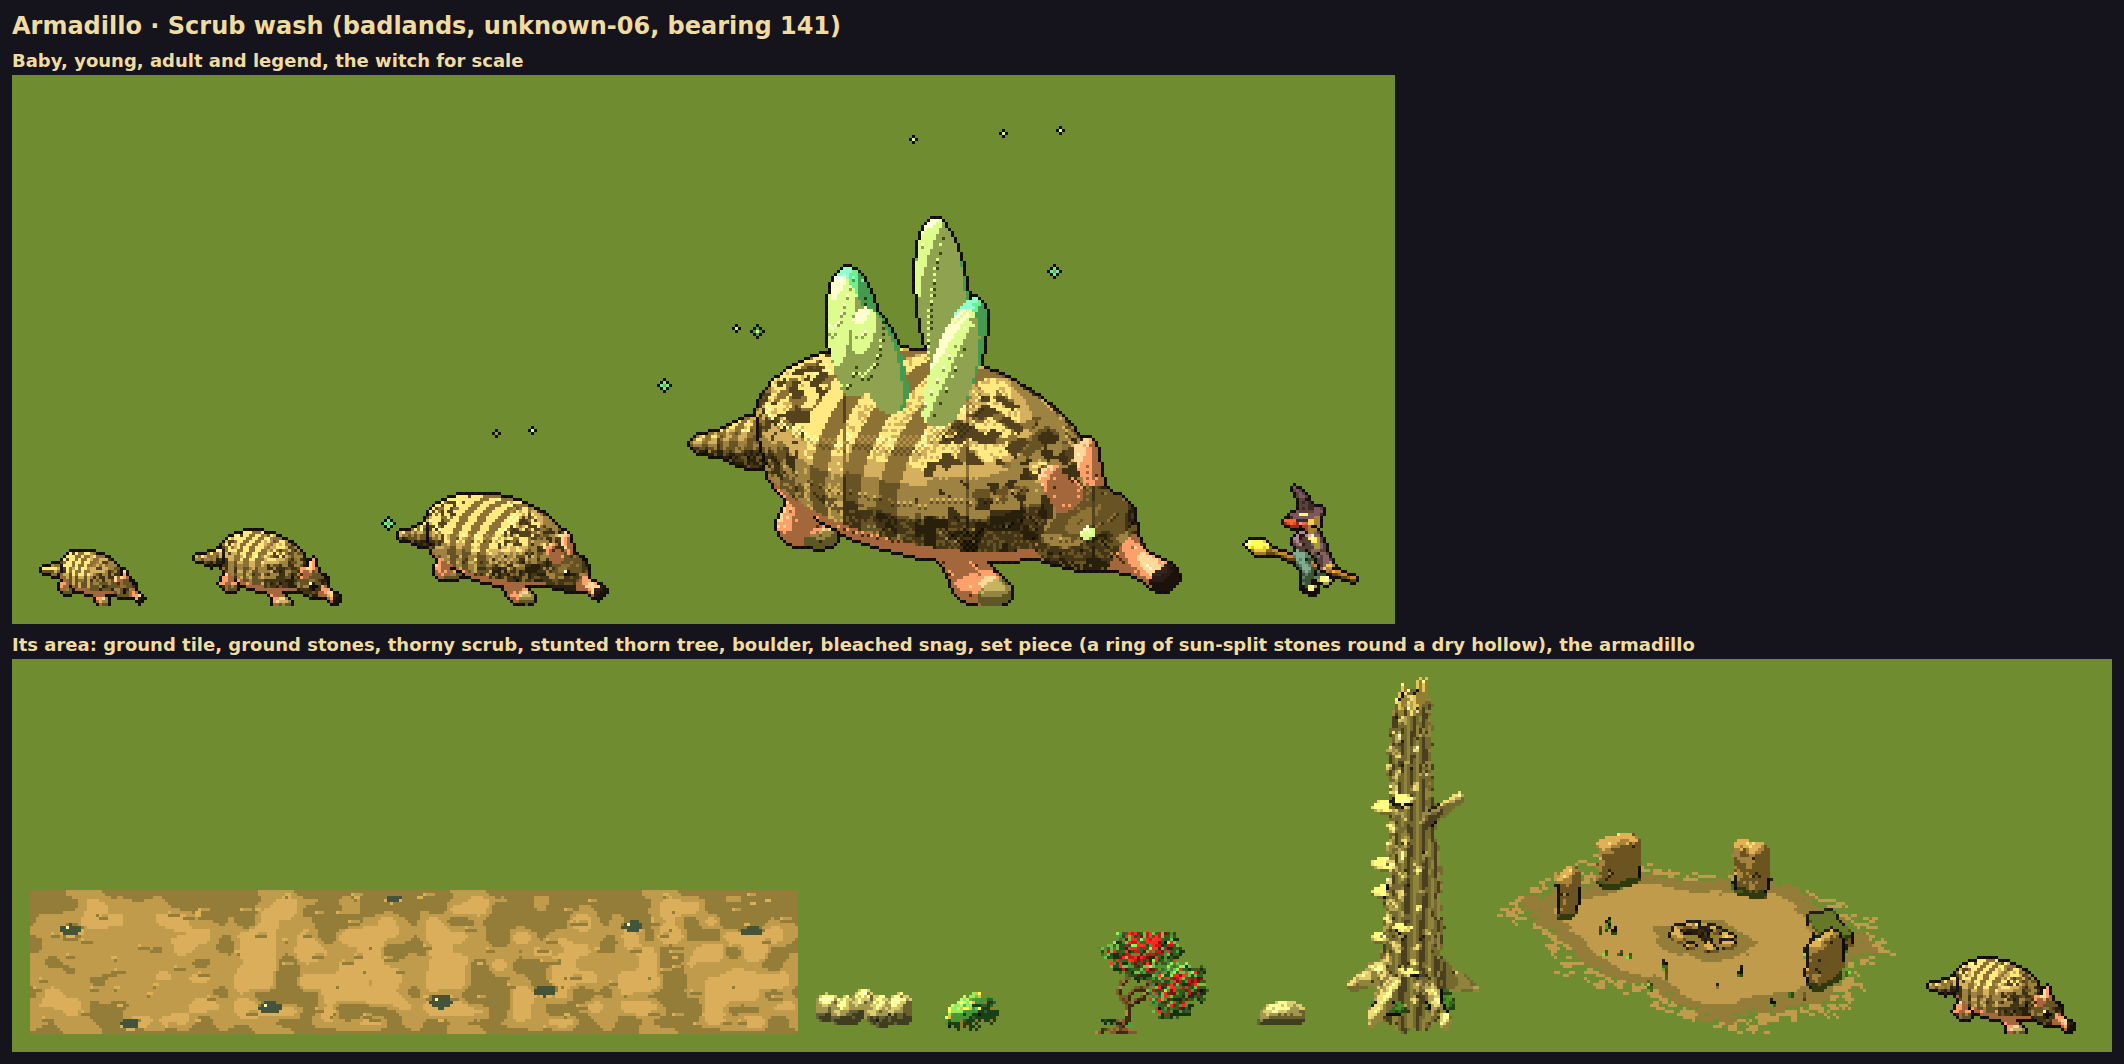
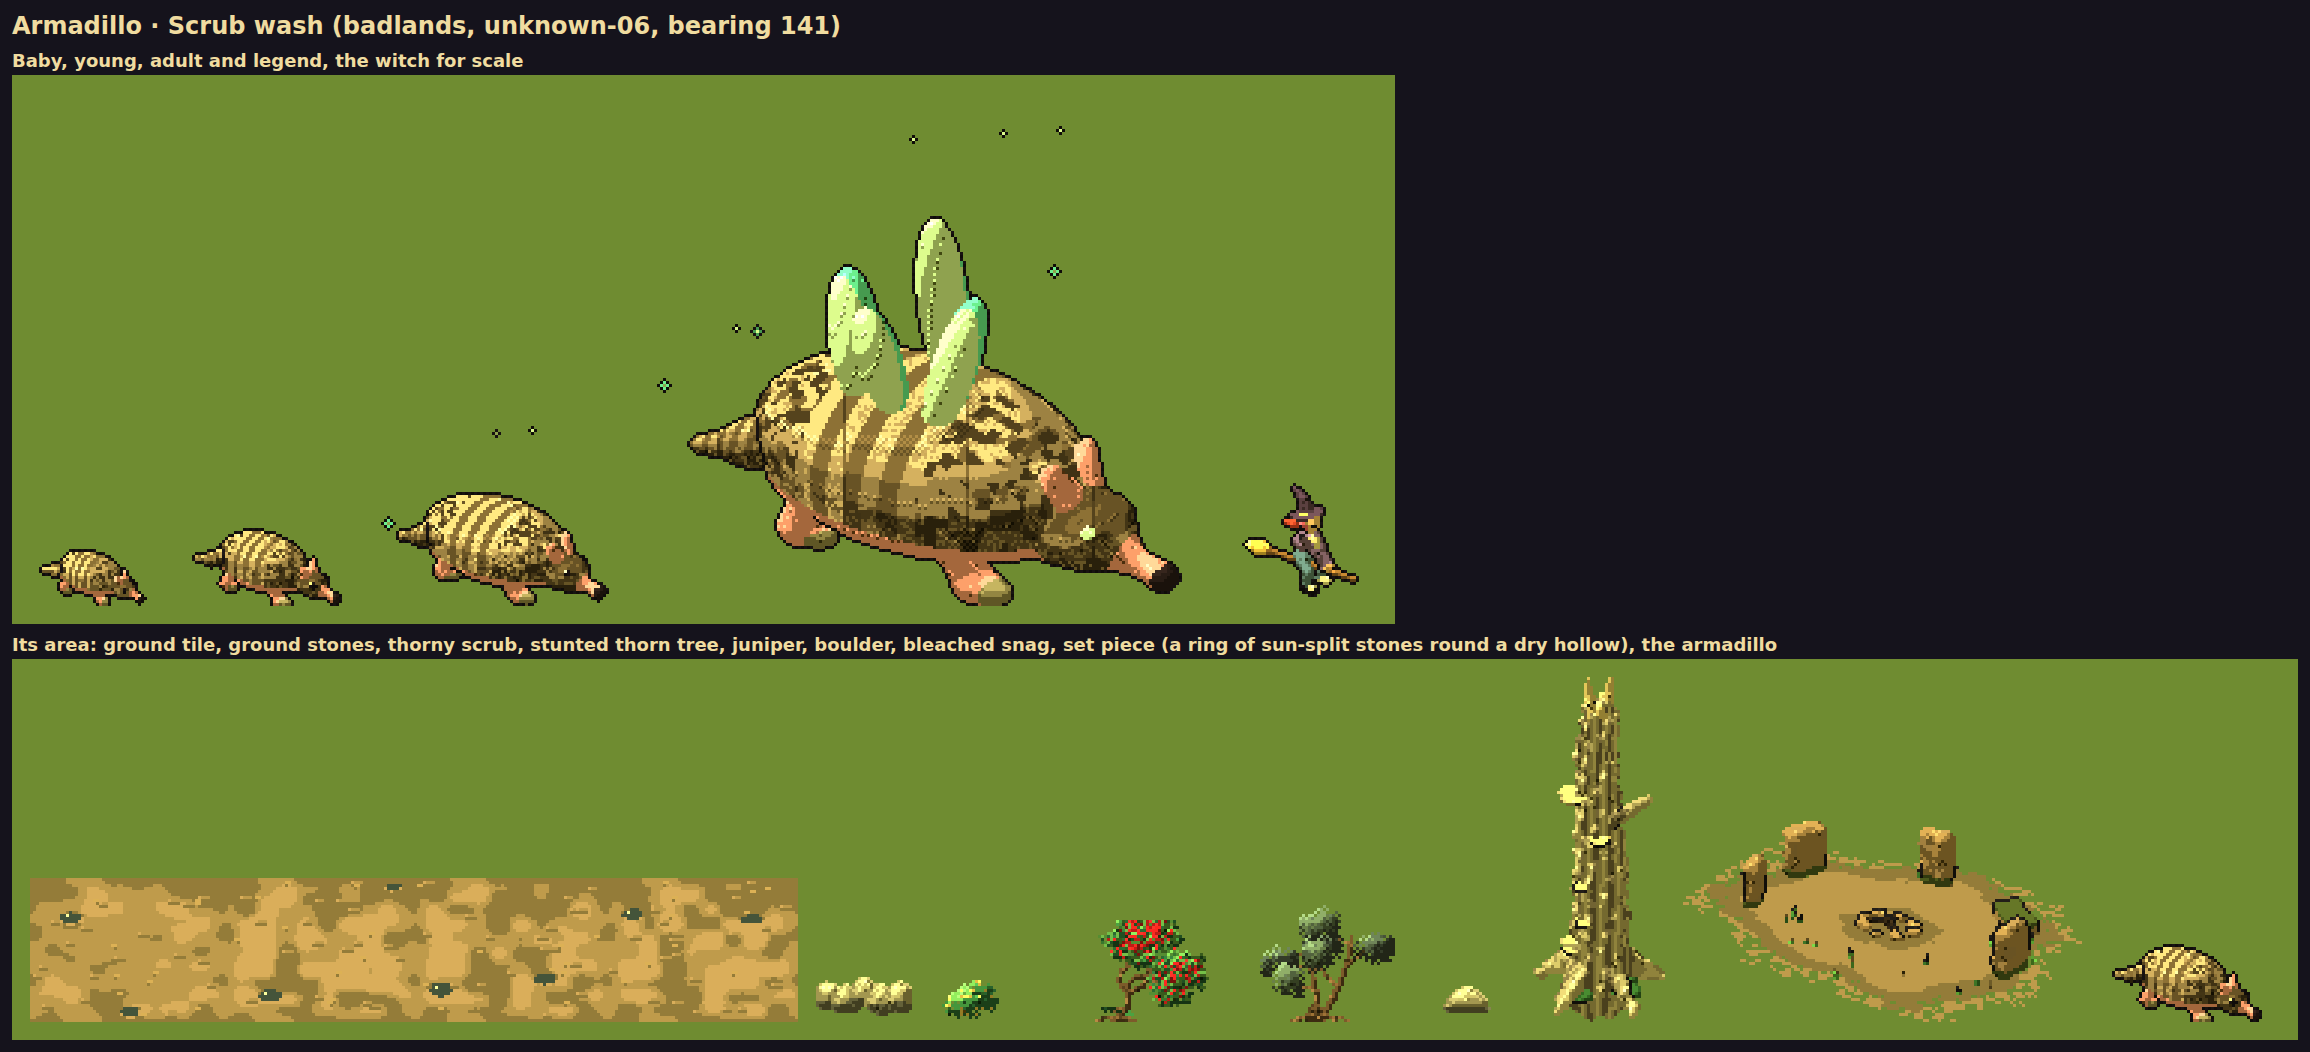
Mocks: the raccoon and its mossy creek; junipers in both badlands areas (Ed: trees in every area)
A juniper genome (blob: twisted, split trunk, lumpy crowns); the raccoon on the four-legged builder with a bandit-mask face and a
ringed tail; the mossy creek recipe (spruce, cedar, alder, ferns, a mossy logjam).

Claude-Session: https://claude.ai/code/session_01TZiiLtuTHaQyxfLgD6H57G

Changed region(s): [[0.0, 0.0608, 0.9944, 0.9734], [0.0, 0.0, 0.404, 0.0913]]

diff --git a/art/creatures3d.js b/art/creatures3d.js
@@ -323,6 +323,7 @@ export function quad3d(S, level, frame, st, facing = "towards") {
   const headPaint = p => {
     if (q.face === "badger") return Math.abs(p[2]) < hr * .22 * (q.blaze ?? 1) + (p[0] - H[0]) * .1 || p[1] < H[1] - hr * .1 ? (q.blazeGlow && Math.abs(p[2]) < hr * .22 * (q.blaze ?? 1) && p[1] > H[1] - hr * .1 ? M.RUNE : M.BELLY) : M.BODY3; // blaze: the stripe's width; blazeGlow: it glows in moonlight
     if (q.face === "dark") return M.BODY2;
+    if (q.face === "raccoon") { const band = H[1] + hr * .12; if (p[0] > H[0] - hr * .35 && Math.abs(p[1] - band) < hr * .27) return M.BODY3; if (p[0] > H[0] - hr * .1 && p[1] >= band + hr * .27 && p[1] < band + hr * .5) return M.BELLY; if (p[0] > H[0] + hr * .2 && p[1] < band - hr * .27) return M.BELLY; return undefined; } // the bandit mask: black across its eyes, white brows over it and a white muzzle under
     if (q.frost && p[0] > H[0] + hr * .7 && spotty(p, 26, .45)) return M.WEB; // frost on its muzzle
     if (q.mask && p[0] > H[0] + hr * .15 && p[1] > H[1] - hr * .4 && p[1] < H[1] + hr * .45) return M.BELLY; // a white mask over its eyes and muzzle
     if ((q.belly || q.muzzle) && p[1] < H[1] - hr * .35) return M.BELLY;
@@ -464,6 +465,7 @@ function tail3d(m, kind, tb, len, top, tw) {
   else if (kind === "newt") { m.chain([[...tb, .1], [X(1.35), .3 + tw, 0, .07], [X(1.85), .2 + tw * .5, 0, .04]], M.BODY, o); m.ell([X(1.55), .33 + tw * .7, 0], [.42, .2, .03], M.BODY2, { ...o, dir: [1, -.12, 0] }); } // a newt's tail: a tall flat crested fin (its signature)
   else if (kind === "salamander") m.chain([[...tb, .12], [X(1.3), .18 + tw, 0, .08], [X(1.75), .1, 0, .055], [X(2.1), .16 + tw, 0, .035], [X(2.25), .3 + tw, 0, .02]], M.BODY, { ...o, paint: p => p[0] < X(1.6) && Math.sin(p[0] * 18) > .4 ? M.BELLY : undefined }); // long and slim, banded, curling up at its tip
   else if (kind === "flat") { m.seg(tb, [X(1.15), .3, 0], .1, .09, M.BODY2, o); m.ell([X(1.5), .17 + tw * .5, 0], [.44, .07, .3], M.BODY3, { ...o, dir: [1, .25, 0], paint: p => (Math.floor(p[0] * 14) + Math.floor(p[2] * 14)) % 2 ? M.BODY2 : undefined }); } // the broad scaly paddle, tipped up so it shows (its signature)
+  else if (kind === "ringed") m.chain([[...tb, .1], [X(1.05) - .3, top - .1 + tw, 0, .15], [X(1.05) - .7, top - .25 + tw, 0, .15], [X(1.05) - .95, top - .4 + tw, 0, .09]], M.BODY, { ...o, paint: p => Math.floor(-p[0] * 7) % 2 || p[0] < X(1.05) - .85 ? M.BODY3 : undefined }); // thick, held low, ringed in black, its tip black (the raccoon's)
   else if (kind === "thin") { m.chain([[...tb, .04], [X(1.1), top - .3, 0, .03], [X(1.12) + tw, top - .55, 0, .025]], M.BODY, o); m.ell([X(1.12) + tw, top - .62, 0], [.04, .07, .04], M.BODY3, o); }
 }
 

diff --git a/art/recipes/warren.js b/art/recipes/warren.js
@@ -2,17 +2,18 @@
 // (art/recipes.js says what each field is). Red sand and pebbles between eroded hoodoos, dry tussocks, a heap of red stones over
 // the burrows where the sentinels stand watch; the meerkat its creature.
 export const WARREN = {
-  id: "warren", name: "Warren", creature: "meerkat", by: "recipe", leaf: .12, floor: ["stony", .05, .45, .52],
-  text: { floor: "red sand and pebbles", wall: "low rock ledges", small: "dry tussocks", big: "red rock hoodoos and sun-bleached snags", set: "a heap of red stones over the warren" },
+  id: "warren", name: "Warren", creature: "meerkat", by: "recipe", leaf: .3, floor: ["stony", .05, .45, .52],
+  text: { floor: "red sand and pebbles", wall: "low rock ledges", small: "dry tussocks", big: "twisted junipers among red rock hoodoos", set: "a heap of red stones over the warren" },
   wall: [["rockwall", {}]], small: [["grass", { h: 1.1, leafHue: .12, leafSat: .35 }]],
-  big: [["spire", { rock: [.04, .55, .62], dry: true }], ["spire", { twin: true, sparse: .2, rock: [.05, .5, .66], dry: true }], ["boulder", { sparse: .25 }], ["snag", { sparse: .12, bleached: true }]],
+  big: [["tree", { type: "juniper", scale: 1.15, lean: .2 }], ["spire", { sparse: .25, rock: [.04, .55, .62], dry: true }], ["spire", { twin: true, sparse: .2, rock: [.05, .5, .66], dry: true }], ["boulder", { sparse: .25 }], ["snag", { sparse: .12, bleached: true }]],
   steep: true,
   setPiece: ["heap", "a heap of red stones over the warren", 1, { of: "stones", moss: 0, top: "slab", stone: [.04, .5, .6] }],
   layout: {
     pattern: "scatter", density: .25, clump: .5, glades: { count: 2, size: [14, 22] },
-    heightMix: null, undergrowth: .4, lean: { dir: 0, amount: 0 },
+    heightMix: { sapling: .3, mature: .55, tall: .15, giant: 0 }, undergrowth: .4, lean: { dir: 0, amount: 0 },
     terrain: ["rocky", "ridges", "mounds"], decor: { rate: .35, ruins: .2, rocks: .7, freak: 0, lake: 0, modern: .1 },
-    feel: "Red sand flats under eroded hoodoos, dry tussocks, burrow mouths everywhere; hot, open and watched from every rock.",
+    feel: "Red sand flats under eroded hoodoos, twisted junipers, dry tussocks, burrow mouths everywhere; hot, open and watched from every rock.",
   },
+  flora: { species: [["juniper", 1]], palette: { sat: .5, val: .8 } },
   settings: { treeDensity: .25, groundCover: { density: .4, kinds: ["pebbles", "blades"] } },
 };

diff --git a/art/recipes/scrubwash.js b/art/recipes/scrubwash.js
@@ -2,10 +2,10 @@
 // recipe (art/recipes.js says what each field is). Cracked dry clay along a sandy wash, thorny scrub and stunted thorn trees,
 // sun-split stones; the armadillo its creature.
 export const SCRUB_WASH = {
-  id: "scrub-wash", name: "Scrub wash", creature: "armadillo", by: "recipe", leaf: .17, floor: ["mud", .08, .32, .52],
-  text: { floor: "cracked dry clay", wall: "the wash's sandy banks", small: "thorny scrub", big: "stunted thorn trees and sun-split boulders", set: "a ring of sun-split stones round a dry hollow" },
+  id: "scrub-wash", name: "Scrub wash", creature: "armadillo", by: "recipe", leaf: .24, floor: ["mud", .08, .32, .52],
+  text: { floor: "cracked dry clay", wall: "the wash's sandy banks", small: "thorny scrub", big: "stunted thorn trees, junipers and sun-split boulders", set: "a ring of sun-split stones round a dry hollow" },
   wall: [["rockwall", {}]], small: [["shrub", { spiky: true, flower: [214, 190, 120] }]],
-  big: [["tree", { type: "hawthorn", scale: .65, gnarl: 1, lean: .25 }], ["boulder", { sparse: .2 }], ["snag", { sparse: .15, bleached: true }]],
+  big: [["tree", { type: "hawthorn", scale: .65, gnarl: 1, lean: .25 }], ["tree", { type: "juniper", minor: true, scale: .75, lean: .25 }], ["boulder", { sparse: .2 }], ["snag", { sparse: .15, bleached: true }]],
   setPiece: ["ring", "a ring of sun-split stones round a dry hollow", 1, { member: "stone", height: 1.1, width: .8, stone: [.07, .3, .62] }],
   layout: {
     pattern: "scatter", density: .35, clump: .55, glades: { count: 2, size: [12, 18] },
@@ -13,6 +13,6 @@ export const SCRUB_WASH = {
     terrain: ["rocky", "hollows"], decor: { rate: .3, ruins: .3, rocks: .6, freak: .1, lake: 0, modern: .1 },
     feel: "Cracked clay and sand in a dry wash, thorny scrub and stunted thorn trees bent by the heat; dusty, low and prickly.",
   },
-  flora: { species: [["hawthorn", 1]], palette: { sat: .55, val: .75 } },
+  flora: { species: [["hawthorn", .6], ["juniper", .4]], palette: { sat: .55, val: .75 } },
   settings: { treeDensity: .35, groundCover: { density: .5, kinds: ["pebbles", "blades"] } },
 };

diff --git a/art/genome/species.js b/art/genome/species.js
@@ -137,6 +137,9 @@ export const GENOMES = [
   { id: "newt", name: "Newt", template: "quadruped", builder: "quad", palette: { hue: .08, sat: .55, val: .35, belly: "yellow" }, body: { hgt: .4, len: 1.1, chest: .1, tuck: .1, neck: .14, neckAng: .1, neckW: .45, hr: .28, legW: .6, bw: .22 }, head: { snout: .42, snoutD: .5 }, parts: { ears: { kind: "none" }, tail: "newt", feet: "paw" }, coat: { spots: true, spotMat: "belly", ridge: 2.4 }, legend: ["crystals"], texture: { kind: "smooth" } },
   // the heronry's heron (an area recipe's, #119; art builder 2's heron builder): a tall grey wader, S-necked, dagger-billed
   { id: "heron", name: "Heron", template: "avian", builder: "heron", palette: { hue: .6, sat: .08, val: .62 }, legend: ["wings"], texture: { kind: "feathers" } },
+  // the cold rainforest's raccoon (Ed, 2026-10-12, unknown-30): grey and hunched, a black bandit mask between white brows and muzzle,
+  // dark legs and hands, a thick ringed tail (not Delta's red panda: grey, not russet)
+  { id: "raccoon", name: "Raccoon", template: "quadruped", builder: "quad", palette: { hue: .62, sat: .07, val: .55 }, body: { hgt: .62, len: .6, chest: .36, tuck: .4, neck: .2, neckAng: .45, neckW: .45, hr: .28, legW: .95, back: "arch" }, head: { snout: .7, snoutD: .55, snoutTaper: .5, face: "raccoon", whiskers: true }, parts: { ears: { kind: "round", size: .95 }, tail: "ringed", feet: "paw" }, coat: { legMat: "BODY3", shaggy: true }, legend: ["moss"], texture: { kind: "fur", size: 3 } },
   // the badlands' meerkat (Ed, 2026-10-12, unknown-05): a slim sandy sentinel, long-necked and upright, banded faintly across the back,
   // dark round its eyes, a thin dark-tipped tail
   { id: "meerkat", name: "Meerkat", template: "squat", builder: "meerkat", palette: { hue: .09, sat: .35, val: .72 }, legend: ["sunRuff"], texture: { kind: "fur", size: 2 } },

diff --git a/art/flora/genomes.js b/art/flora/genomes.js
@@ -106,6 +106,12 @@ export const PLANT_GENOMES = {
     params: { w: 125, h: 180, narrow: 1, trunk: { w: 11, len: .7, taper: .45, bend: .6 }, levels: [{ n: [5, 7], at: [.3, 1], len: [.22, .32], angle: [.3, .55], up: .4, shape: "flame" }, { n: [1, 2], at: [.6, 1], len: [.4, .6], angle: [.2, .4], up: .3 }],
       crown: { blobs: [6, 8], r: [13, 17], flat: .7, stamp: "leaf", stampSize: 2.5, back: .4, backDark: .45, holes: .06 } },
     low: { ivy: .7, sprigs: 1, boughs: .2 }, colour: { hue: .02, sat: 1.05, val: .78 } },
+  // the badlands' juniper (Ed, 2026-10-12: "trees are good, we should try and put them into areas"; olives and junipers on crags):
+  // low, wind-twisted, its trunk silvered and split in two, lumpy blue-green crowns of scale leaves, no moss in the dry
+  juniper: { name: "juniper", form: "tree", generator: "blob", grow: "small", crown: { envelope: "sphere", clumps: "lumpy tufts on twisted limbs" },
+    params: { w: 170, wPad: 40, h: 110, trunk: { w: 9, len: .62, taper: .55, bend: 1.8, lean: .3, stems: 2, fan: .7 }, levels: [{ n: [3, 4], at: [.45, .95], len: [.32, .48], angle: [.8, 1.25], up: .15, tips: true }],
+      crown: { blobs: [7, 10], r: [11, 15], flat: .55, stamp: "needle", stampSize: 2, back: .35, backDark: .45 } },
+    low: { moss: 0 }, colour: { hue: .1, sat: .55, val: .75, trunk: [.08, .12, .62] } },
   cedar: { name: "cedar", form: "tree", generator: "blob", grow: "wide", crown: { envelope: "tiers", clumps: "flat plates in tiers" },
     params: { w: 200, h: 150, trunk: { w: 12, len: .82, taper: .4, bend: .7 }, levels: [{ n: [5, 6], at: [.3, .95], len: [.3, .45], angle: [1.25, 1.45], up: -.05, shape: "cone", tips: true }],
       crown: { blobs: [7, 9], r: [16, 22], flat: .28, stamp: "needle", stampSize: 3, back: .2, lift: 1, tones: [.05, .5] } },

diff --git a/art/recipes/mossycreek.js b/art/recipes/mossycreek.js
@@ -1,0 +1,19 @@
+// The mossy creek (Ed, 2026-10-12: more animals for the later islands; unknown-30, the cold rainforest, bearing 305): an area type as
+// a recipe (art/recipes.js says what each field is). Tall spruces and cedars dripping with moss over a cold creek, ferns everywhere,
+// a mossy logjam where the creek pools and the raccoons wash their food; the raccoon its creature.
+export const MOSSY_CREEK = {
+  id: "mossy-creek", name: "Mossy creek", creature: "raccoon", by: "recipe", leaf: .33, floor: ["moss", .3, .5, .3],
+  text: { floor: "deep moss and wet stones", wall: "the creek", small: "sword ferns", big: "tall mossy spruces and cedars", set: "a mossy logjam where the creek pools" },
+  wall: [["water", { w: 1.6 }], ["fern", {}]], small: [["fern", {}]],
+  big: [["tree", { type: "fir", scale: 1.4 }], ["tree", { type: "cedar", scale: 1.2 }], ["tree", { type: "alder", minor: true, scale: .9 }], ["log", { moss: true, sparse: .12 }]],
+  ponds: true, wet: true, pathKinds: ["boardwalk"],
+  setPiece: ["heap", "a mossy logjam where the creek pools", 1, { of: "logs", moss: .5 }],
+  layout: {
+    pattern: "stands", density: .7, clump: .6, glades: { count: 1, size: [12, 18] },
+    heightMix: { sapling: .1, mature: .35, tall: .4, giant: .15 }, undergrowth: .9, lean: { dir: 0, amount: 0 },
+    terrain: ["stream", "pools", "hollows"], decor: { rate: .2, ruins: .2, rocks: .4, freak: .1, lake: .3, modern: 0 },
+    feel: "A cold green gloom under towering mossy spruces and cedars, a creek chattering over stones, ferns waist-deep; dripping, soft and old.",
+  },
+  flora: { species: [["fir", .45], ["cedar", .35], ["alder", .2]], palette: { sat: .85, val: .8 } },
+  settings: { treeDensity: .7, groundCover: { density: .9, kinds: ["moss", "blades"] } },
+};

diff --git a/art/genome/templates.js b/art/genome/templates.js
@@ -16,7 +16,7 @@ export const TEMPLATES = {
     name: "Four-legged", builders: ["quad"],
     sockets: {
       ears: ["ear.point", "ear.round", "ear.long", "ear.tuft", "ear.small", "ear.big", "ear.none"],
-      tail: ["tail.brush", "tail.bushy", "tail.stub", "tail.deer", "tail.bob", "tail.puff", "tail.squirrel", "tail.thin", "tail.otter", "tail.flat", "tail.stoat", "tail.dormouse", "tail.marten", "tail.newt", "tail.salamander"],
+      tail: ["tail.brush", "tail.bushy", "tail.stub", "tail.deer", "tail.bob", "tail.puff", "tail.squirrel", "tail.thin", "tail.otter", "tail.flat", "tail.stoat", "tail.dormouse", "tail.marten", "tail.newt", "tail.salamander", "tail.ringed"],
       feet: ["foot.paw", "foot.hoof"],
       horns: ["horn.curl", "horn.twist"], antlers: ["antler.branch", "antler.palm"], tusks: ["tusk"],
     },

diff --git a/art/recipes.js b/art/recipes.js
@@ -16,7 +16,8 @@ import { FEN } from "./recipes/fen.js";
 import { HERONRY } from "./recipes/heronry.js";
 import { WARREN } from "./recipes/warren.js";
 import { SCRUB_WASH } from "./recipes/scrubwash.js";
-export const AREA_RECIPES = [FEN, HERONRY, WARREN, SCRUB_WASH];
+import { MOSSY_CREEK } from "./recipes/mossycreek.js";
+export const AREA_RECIPES = [FEN, HERONRY, WARREN, SCRUB_WASH, MOSSY_CREEK];
 
 // What is missing from a recipe, if anything.
 export function recipeProblems(R) {
